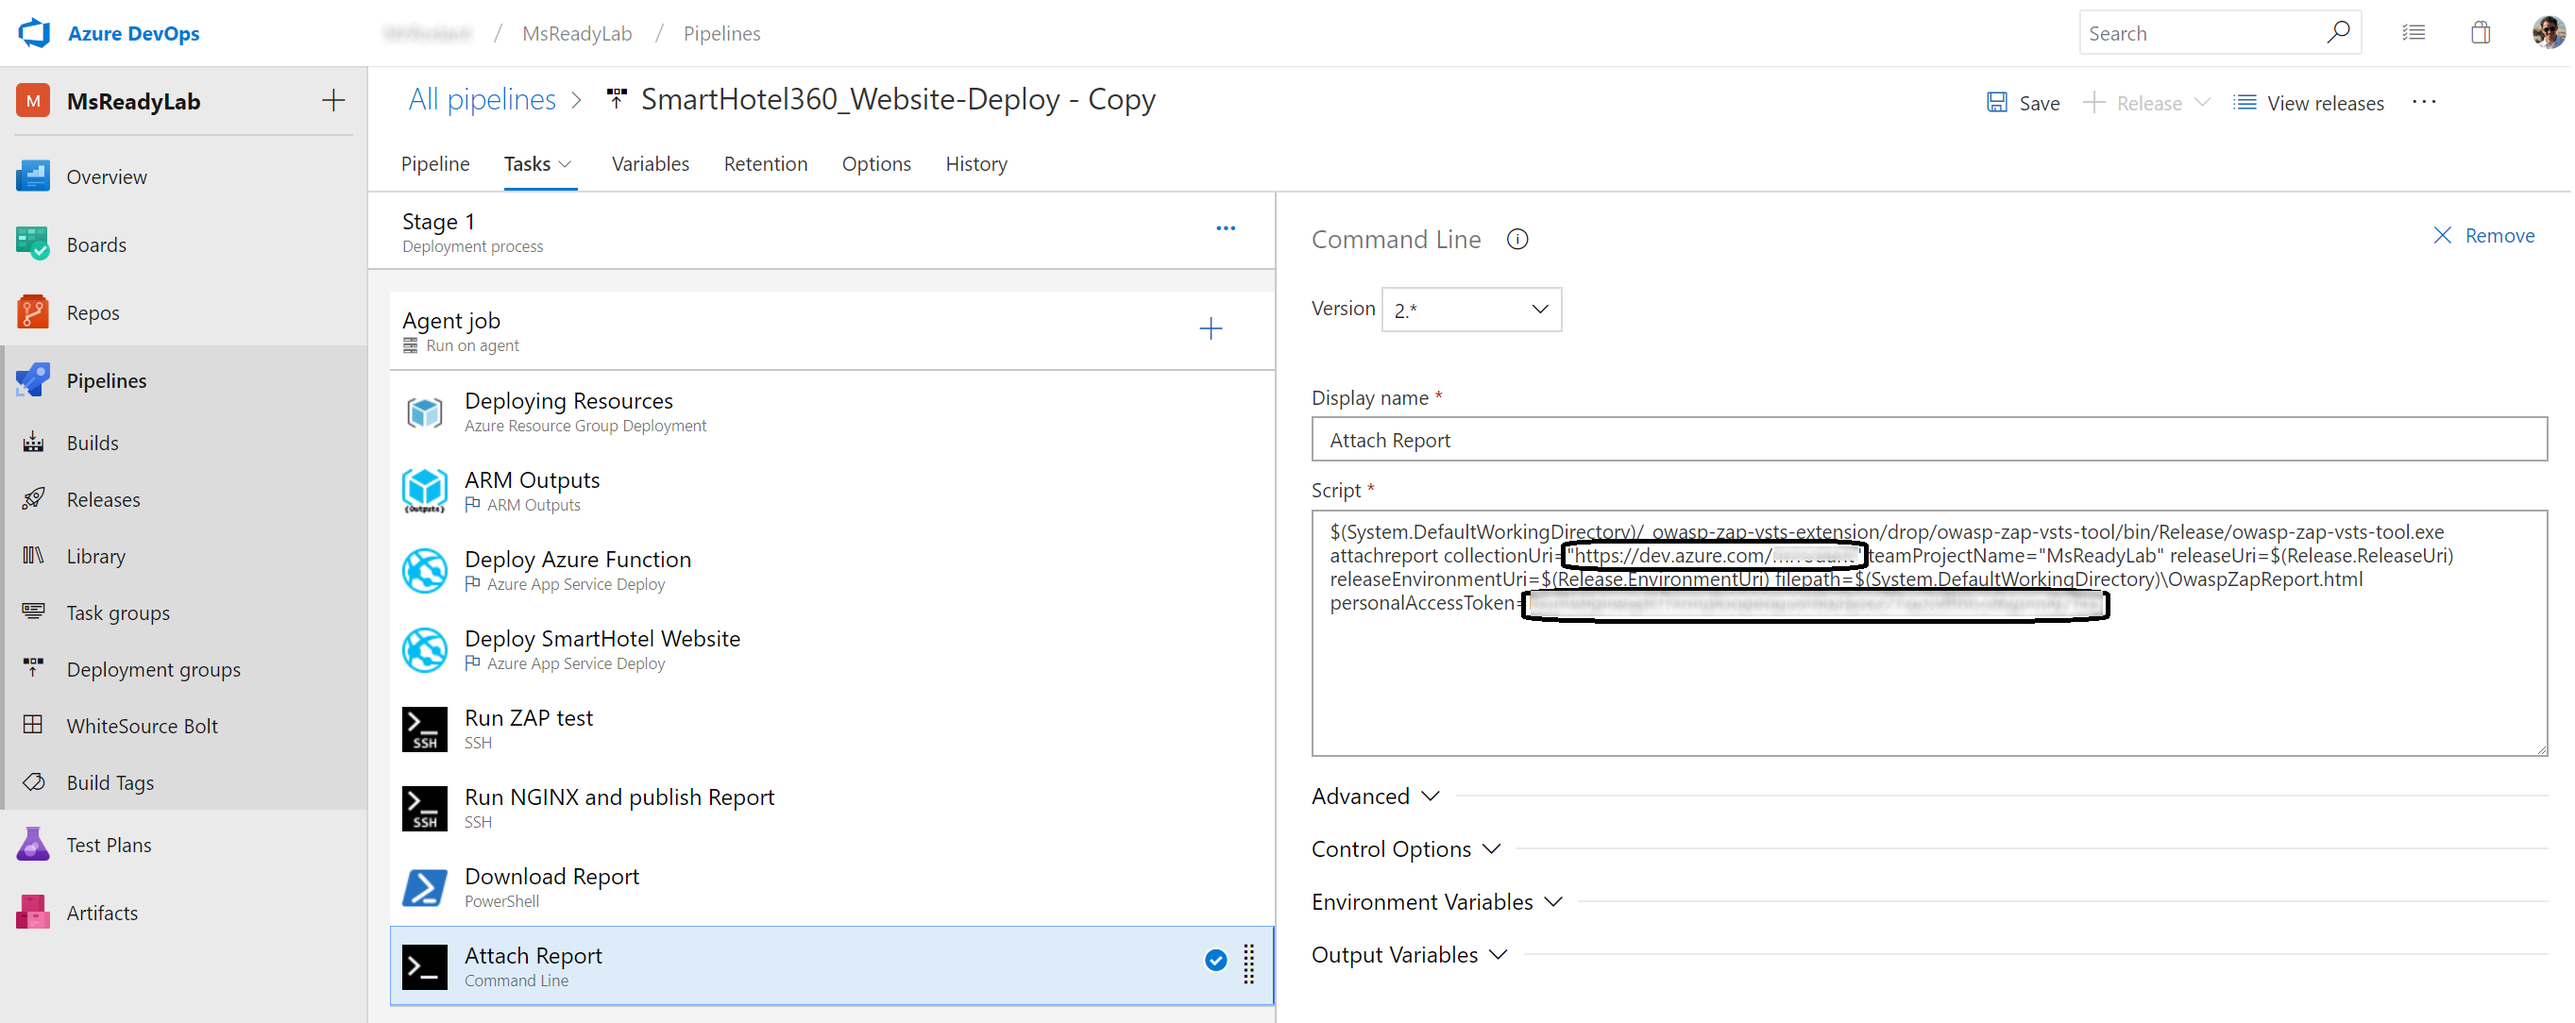
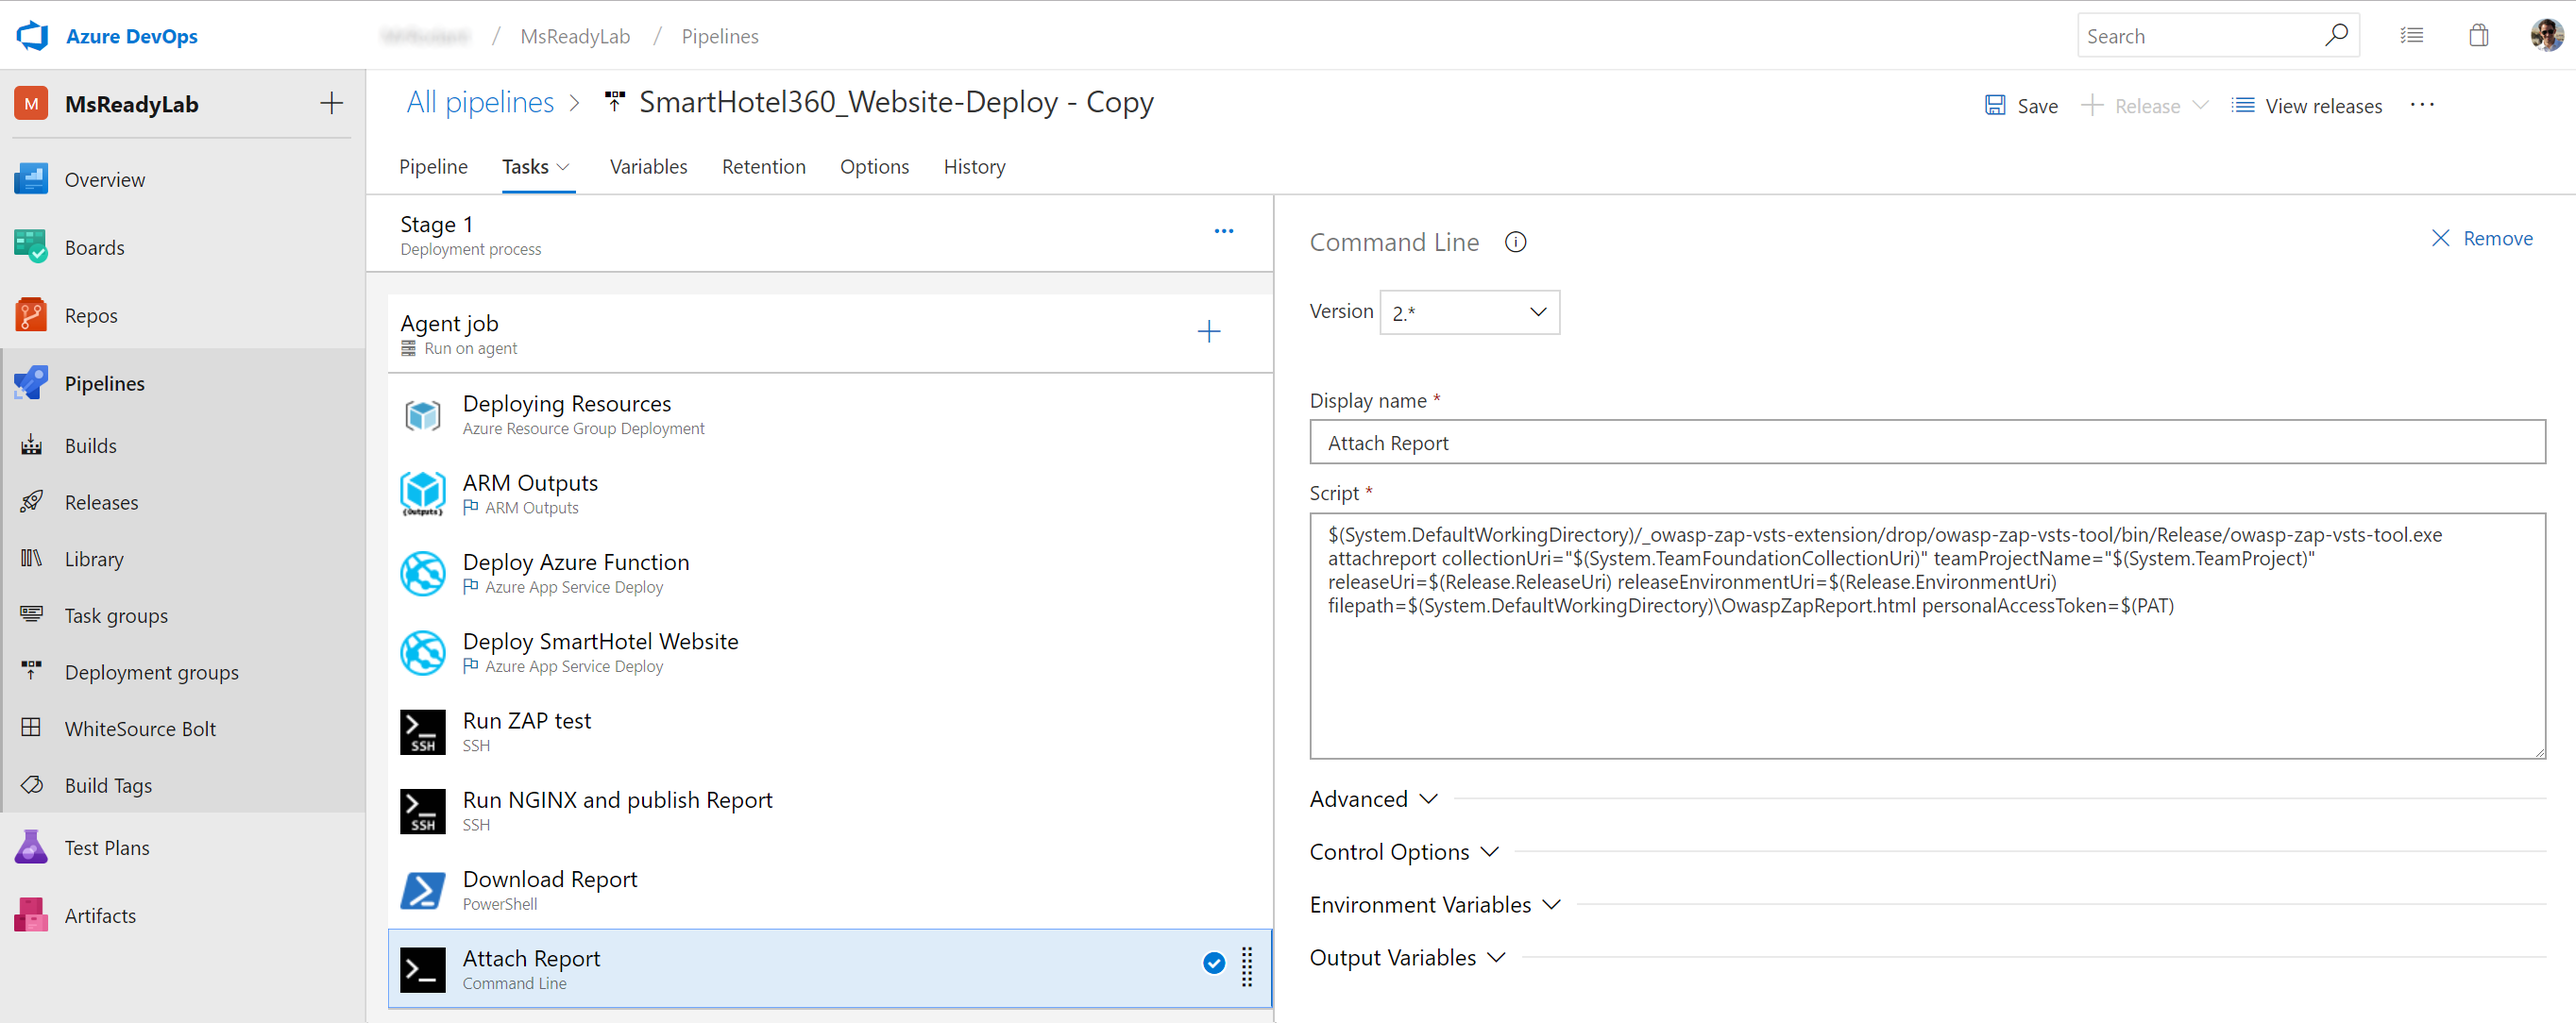
moved some configurations to variables

diff --git a/README.md b/README.md
@@ -419,6 +419,22 @@ OWASP is a worldwide not-for-profit organization dedicated to helping improve th
 
     ![](img/PAT-token.png)
 
+    3.5 Add a secret variable in the release for later use.
+    Navigate to *Pipelines*, *Releases* and edit our release pipeline. Then, under *Variables*, add a new variable setting:
+
+    ```bash    
+    Name: PAT
+    Value: <copied PAT token>
+    Secret: press the locked button, hiding the content of the variable (making it a secret)
+    ```
+
+    You should get the following configuration:
+
+    ![](img/PAT-token-variable.png)
+
+    Save the release pipeline.
+
+
 4. Let's get back to the Release pipeline and add some extra tasks to launch the ZAP test and grab the results.
 Start by adding two `SSH` tasks, one for running the tests and another for publishing the test report to a public website. 
 
@@ -471,10 +487,10 @@ Start by adding two `SSH` tasks, one for running the tests and another for publi
 
     ![](img/Add-OWASP-tasks-search.png)
 
-5. Paste this command on the *Script* text box, changing the values between `<>`, as seen in the image.
+5. Paste this command on the *Script* text box as seen in the image.
 
     ```bash
-    $(System.DefaultWorkingDirectory)/owasp-zap-vsts CI/drop/owasp-zap-vsts-tool/bin/Release/owasp-zap-vsts-tool.exe attachreport collectionUri="<Azure DevOps ORGANIZATION URI>" teamProjectName="MsReadyLab" releaseUri=$(Release.ReleaseUri) releaseEnvironmentUri=$(Release.EnvironmentUri) filepath=$(System.DefaultWorkingDirectory)\OwaspZapReport.html personalAccessToken=<GENERATED PERSONAL ACCESS TOKEN>
+    $(System.DefaultWorkingDirectory)/_owasp-zap-vsts-extension/drop/owasp-zap-vsts-tool/bin/Release/owasp-zap-vsts-tool.exe attachreport collectionUri="$(System.TeamFoundationCollectionUri)" teamProjectName="$(System.TeamProject)" releaseUri=$(Release.ReleaseUri) releaseEnvironmentUri=$(Release.EnvironmentUri) filepath=$(System.DefaultWorkingDirectory)\OwaspZapReport.html personalAccessToken=$(PAT)
     ```
 
     ![](img/OWASP-Attach-Report.png)
